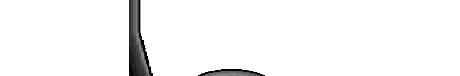
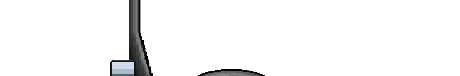
Viatura: volante girando redondo e inteiro, coluna de direção, porta e lado do passageiro desenhados
- Giro do volante em coordenadas de tela (pixel 8:7): o aro continua redondo e
  não deixa aparecer o que está atrás dele (vale para todos os carros).
- Volante da viatura inteiro (230 linhas), sem o corte reto aparecendo ao girar.
- Atrás do miolo: coluna de direção e painel dos joelhos; as aberturas do volante
  mostram a arte original (sem a mancha escura).
- Laterais desenhadas em pixel nativo: porta do motorista com vidro, retrovisor
  externo, soleira, friso de madeira, maçaneta, botões do vidro, apoio de braço,
  bolsa e alto-falante; lado do passageiro com saída de ar, frisos e porta-luvas.

Claude-Session: https://claude.ai/code/session_01MLD9VR7gkmY4w6a9beZcp6

Changed region(s): [[0.213, 0.7895, 0.3043, 1.0]]

diff --git a/src/cockpit.ts b/src/cockpit.ts
@@ -5,7 +5,7 @@ import { pix, pixWidth } from './pixfont';
 import { dither, speckle, text } from './ui';
 import { clamp, formatTime, lerp, rng, shade } from './util';
 import { F40_WHEEL } from './svg/f40';
-import { svgSprite } from './svgsprites';
+import { spriteAspect, svgSprite } from './svgsprites';
 // cabines em pixel art (tools/ref/import_cockpit.py)
 import dashF40Png from './assets/cockpit/f40-dash.png';
 import wheelF40Png from './assets/cockpit/f40-wheel.png';
@@ -116,7 +116,9 @@ function drawCockpitArt(c: CanvasRenderingContext2D, r: Race, dt: number, art: C
   const color = paintHex(r.car.id);
   const tint = (mask?: string) => (color && mask ? { mask, color } : undefined);
   const dash = svgSprite(art.dash, DASH_W, 124, tint(art.dashMask));
-  const wheelImg = svgSprite(art.wheel, CORE_W, 124);
+  // o volante pode ter mais linhas que o painel (inteiro, para girar sem mostrar corte)
+  const wheelH = Math.round(CORE_W * (spriteAspect(art.wheel) ?? 124 / CORE_W));
+  const wheelImg = svgSprite(art.wheel, CORE_W, wheelH);
   if (!dash || !wheelImg) return false;
   // o painel tem DASH_PAD colunas a mais de cada lado; só além disso a borda é esticada
   const dx = ox - DASH_PAD;
@@ -832,10 +834,15 @@ function steerAngle(r: Race, dt: number) {
   return wheelAngle;
 }
 
+// gira como na tela: o pixel é 8/7 mais largo, então o giro é feito em coordenadas de tela
+// (sem isso um aro redondo vira elipse girando e deixa aparecer o que está atrás dele)
 function withRotation(c: CanvasRenderingContext2D, cx: number, cy: number, ang: number, draw: () => void) {
+  const k = view.aspect;
   c.save();
   c.translate(cx, cy);
+  c.scale(1 / k, 1);
   c.rotate(ang);
+  c.scale(k, 1);
   c.translate(-cx, -cy);
   draw();
   c.restore();

diff --git a/tools/ref/import_cockpit.py b/tools/ref/import_cockpit.py
@@ -42,19 +42,8 @@ CARS = {
         'top_art': [],  # coluna da porta segue a arte até o teto
         'left': 'replicate', 'right': 'replicate',
         'sky_above': 236,   # nas colunas fora da arte, acima do painel é vidro (estrada à vista)
-        # fora da arte: à esquerda a porta, à direita o painel continua (faixas de cor lisa,
-        # tons tirados da arte; linhas da imagem original)
-        'pad_bands': {
-            'left': [(236, 240, '#5a5c5e'), (240, 262, '#3a3c3e'), (262, 268, '#121416'), (268, 300, '#26282a'),
-                     (300, 304, '#5e3422'), (304, 322, '#49271b'), (322, 326, '#2e180f'), (326, 420, '#1c1e20'),
-                     (420, 426, '#3c3e40'), (426, 466, '#2a2c2e'), (466, 472, '#0e1012'), (472, 640, '#1a1c1e'),
-                     (640, 646, '#2e3032'), (646, 2000, '#121314')],
-            'right': [(236, 240, '#121517'), (240, 270, '#4a4c4e'), (270, 282, '#191b1c'), (282, 300, '#1e2022'),
-                      (300, 322, '#49271b'), (322, 418, '#141516'), (418, 422, '#39302a'), (422, 458, '#4d2a19'),
-                      (458, 620, '#18191a'), (620, 658, '#472617'), (658, 820, '#131414'), (820, 856, '#3a1f13'),
-                      (856, 2000, '#141516')],
-        },
-        'hub_fill': ((30, 30, 32), 575),   # atrás do miolo do volante: coluna de direção escura, sem borrão
+        'hub_fill': ((27, 28, 31), 575),   # atrás do miolo do volante: cor lisa (a coluna é desenhada depois)
+        'wheel_rows': 230, 'paint': 'patrol', 'rim_margin': 11,
     },
     # Corvette C4: painel digital (os visores de LCD são redesenhados funcionando no jogo)
     'zr1': {
@@ -74,6 +63,165 @@ def sample(img, w, h):
     return img[ys][:, xs]
 
 
+def hexrgb(c):
+    return [int(c[i:i + 2], 16) for i in (1, 3, 5)]
+
+
+def paint_patrol(rgb, a, art_l, art_r, pivot, hub):
+    """Viatura: a arte cobre só o meio do painel. Desenha em pixel nativo a porta do
+    motorista (vidro, retrovisor, friso, maçaneta, apoio de braço, bolsa, alto-falante),
+    o lado do passageiro (saída de ar, porta-luvas) e a coluna de direção atrás do volante."""
+    H, W = a.shape
+
+    def put(x, y, c):
+        if 0 <= x < W and 0 <= y < H:
+            rgb[y, x] = hexrgb(c)
+            a[y, x] = 255
+
+    def clear(x, y):
+        if 0 <= x < W and 0 <= y < H:
+            a[y, x] = 0
+
+    top_l = int(np.argmax(a[:, art_l + 30] > 0))  # topo do painel logo à direita da coluna da porta
+    top_r = int(np.argmax(a[:, art_r - 1] > 0))
+    # ---- porta do motorista: as linhas descem para a esquerda (perspectiva) ----
+    for x in range(0, art_l):
+        sill = top_l + 2 + int(round((art_l - x) * 0.22))
+        for y in range(H):
+            d = y - sill
+            if d < 0:
+                clear(x, y)
+                continue
+            c = '#2a2c30'
+            if d == 0: c = '#6a6c70'
+            elif d <= 2: c = '#4a4c50'
+            elif d == 3: c = '#141517'
+            elif d == 7: c = '#5e3422'
+            elif 8 <= d <= 9: c = '#49271b'
+            elif d == 10: c = '#2e180f'
+            elif d == 24: c = '#46484c'
+            elif 25 <= d <= 32: c = '#34363a'
+            elif d == 33: c = '#141517'
+            elif 34 <= d <= 43: c = '#222428'
+            elif d == 44: c = '#3a3c40'
+            elif 45 <= d <= 52: c = '#121314'
+            elif d > 52: c = '#1c1e20'
+            put(x, y, c)
+        put(x, sill + 4, '#202226')
+    # fresta entre a porta e o painel
+    for y in range(top_l + 2, H):
+        put(art_l - 1, y, '#0e0f10')
+    # maçaneta (perto da frente da porta)
+    for x in range(art_l - 26, art_l - 14):
+        sill = top_l + 2 + int(round((art_l - x) * 0.22))
+        for d in range(14, 18):
+            put(x, sill + d, '#141517')
+        put(x, sill + 15, '#a0a2a6')
+        put(x, sill + 16, '#6a6c70')
+    # botões do vidro elétrico no apoio de braço
+    for x in range(art_l - 66, art_l - 44):
+        sill = top_l + 2 + int(round((art_l - x) * 0.22))
+        for d in range(26, 29):
+            put(x, sill + d, '#0e0f10')
+        if (x - (art_l - 66)) % 6 in (1, 2, 3):
+            put(x, sill + 27, '#8a8c90')
+    # alto-falante embaixo, com furinhos
+    cx = art_l - 92
+    cy = top_l + 2 + int(round(92 * 0.22)) + 64
+    for y in range(cy - 11, cy + 12):
+        for x in range(cx - 10, cx + 11):
+            q = ((x - cx) / 10) ** 2 + ((y - cy) / 11.4) ** 2
+            if q <= 1:
+                put(x, y, '#2e3034' if q > 0.8 else ('#26282c' if (x + y) % 2 else '#121314'))
+    # ---- lado do passageiro: painel continua ----
+    for x in range(art_r + 1, W):
+        for y in range(H):
+            d = y - top_r
+            if d < 0:
+                clear(x, y)
+                continue
+            c = '#1c1e20'
+            if d <= 1: c = '#5a5c5e'
+            elif d <= 5: c = '#4a4c4e'
+            elif d <= 7: c = '#2a2c2e'
+            elif d == 8: c = '#121416'
+            if y == 23: c = '#5e3422'
+            elif 24 <= y <= 27: c = '#49271b'
+            elif y == 28: c = '#2e180f'
+            elif y == 51: c = '#5e3422'
+            elif 52 <= y <= 58: c = '#4d2a19'
+            elif y == 59: c = '#2e180f'
+            elif y == 96: c = '#0c0d0e'
+            elif y > 96: c = '#141516'
+            put(x, y, c)
+    # saída de ar do passageiro
+    vx0, vx1 = art_r + 8, min(W - 4, art_r + 46)
+    for x in range(vx0, vx1):
+        for y in range(31, 47):
+            if x in (vx0, vx1 - 1) or y in (31, 46): c = '#3a3c40'
+            elif x == (vx0 + vx1) // 2: c = '#2e3034'
+            else: c = '#0c0d0e' if y % 2 else '#2a2c2e'
+            put(x, y, c)
+    # porta-luvas com fecho cromado
+    gx0, gx1 = art_r + 6, min(W - 2, art_r + 70)
+    for x in range(gx0, gx1):
+        for y in range(62, 93):
+            if y == 62: c = '#44464a'
+            elif y == 92: c = '#0e0f10'
+            elif x == gx0: c = '#3a3c40'
+            elif x == gx1 - 1: c = '#101113'
+            else: c = '#24262a'
+            put(x, y, c)
+    lx = (gx0 + gx1) // 2
+    for x in range(lx - 6, lx + 6):
+        put(x, 65, '#0e0f10')
+        put(x, 66, '#8a8c90')
+    # ---- coluna de direção (aparece entre os raios quando o volante gira) ----
+    px, py = pivot
+    for y in range(int(py) - 18, H):
+        for x in range(W):
+            if not hub[y, x]:  # só onde o miolo escondia a arte (as aberturas do volante ficam como na arte)
+                continue
+            hw = 12 + (y - (py - 18)) * 0.12
+            dx = x - px
+            if abs(dx) <= hw:
+                c = '#2c2e32'
+                if dx < -hw + 2: c = '#44464a'
+                elif dx > hw - 2: c = '#18191c'
+                if y < py - 13: c = '#202124' if abs(dx) < hw - 3 else c
+                put(x, y, c)
+            elif y > py - 18:
+                put(x, y, '#1b1c1f')  # painel embaixo do volante (joelhos)
+
+
+def paint_mirror(top, dash, art_l, sill_f):
+    """Retrovisor externo no canto da frente do vidro lateral, encostado na coluna da porta.
+    Ocupa o fim do topo (linhas negativas) e o começo do painel."""
+    EXTR = top.shape[0]
+
+    def put(x, y, c):
+        img = top if y < 0 else dash
+        yy = y + EXTR if y < 0 else y
+        if 0 <= x < img.shape[1] and 0 <= yy < img.shape[0]:
+            img[yy, x, :3] = hexrgb(c)
+            img[yy, x, 3] = 255
+
+    mx0, mx1 = art_l - 20, art_l + 6
+    my0, my1 = sill_f - 24, sill_f - 1
+    for x in range(mx0, mx1):
+        for y in range(my0, my1):
+            if min(x - mx0, mx1 - 1 - x) + min(y - my0, my1 - 1 - y) < 2:
+                continue  # cantos arredondados
+            if x <= mx0 + 1 or x >= mx1 - 2 or y <= my0 + 1 or y >= my1 - 2:
+                put(x, y, '#3a3c40' if y == my0 and mx0 + 2 < x < mx1 - 3 else '#141517')
+            else:  # vidro: céu claro em cima, estrada escura embaixo (reflexo)
+                t = (y - my0) / (my1 - my0)
+                put(x, y, '#d0dcea' if t < 0.35 else ('#a8bccc' if t < 0.6 else '#5a6068'))
+    for x in range(mx1 - 12, mx1):  # base presa na porta
+        for y in range(my1 - 1, sill_f + 2):
+            put(x, y, '#1c1d20')
+
+
 def main():
     src, outdir, car = sys.argv[1], sys.argv[2], sys.argv[3]
     cfg = CARS[car]
@@ -84,12 +232,15 @@ def main():
     xc0, y0 = cfg['x0'], cfg['y0']
     x0 = int(round(xc0 - PAD * px_w))
     x1, y1 = int(round(xc0 + (256 + PAD) * px_w)), int(y0 + ROWS * px_h)
+    wrows = cfg.get('wheel_rows', ROWS)  # o volante pode ir além da tela (girado, não mostra corte)
+    y1w = int(y0 + wrows * px_h)
     pad_x0, pad_x1 = max(0, -x0), max(0, x1 - full.shape[1])
     ty0 = int(round(y0 - EXT * px_h))  # topo das colunas, se vierem da arte
     tpad = max(0, -ty0)
-    canvas = cv2.copyMakeBorder(full, tpad, max(0, y1 - full.shape[0]), 0, 0, cv2.BORDER_REPLICATE)
+    canvas = cv2.copyMakeBorder(full, tpad, max(0, max(y1, y1w) - full.shape[0]), 0, 0, cv2.BORDER_REPLICATE)
     y0 += tpad
     y1 += tpad  # o recorte do painel também desce (sem isso a arte saía esticada na vertical)
+    y1w += tpad
     ty0 += tpad
     # onde a arte acaba nas laterais, espelha (fica natural; repetir a coluna vira listras)
     canvas = cv2.copyMakeBorder(canvas, 0, 0, pad_x0, pad_x1, cv2.BORDER_REFLECT)
@@ -137,6 +288,10 @@ def main():
 
     # fundo do painel: apaga volante e ponteiros
     hole = cv2.dilate(wheel.astype(np.uint8), np.ones((7, 7), np.uint8)) | needles
+    if 'rim_margin' in cfg:  # o aro medido não bate pixel a pixel: apaga uma faixa mais larga (sem "aro fantasma" ao girar)
+        k = cfg['rim_margin']
+        rim = ((m_out > 0) & (m_in == 0)).astype(np.uint8)
+        hole |= cv2.dilate(rim, np.ones((k, k), np.uint8))
     for (a, b, c, d) in cfg.get('erase', []):
         (a, b), (c, d) = to_crop(a, b), to_crop(c, d)
         hole[max(0, b):max(0, d), max(0, a):max(0, c)] = 1
@@ -177,6 +332,13 @@ def main():
     nw, nh = 256 + 2 * PAD, ROWS
     d_rgb = sample(cv2.cvtColor(dash, cv2.COLOR_BGR2RGB), nw, nh)
     d_a = sample((~sky).astype(np.uint8) * 255, nw, nh)
+    if cfg.get('paint') == 'patrol':
+        pivot_n = ((geo['center'][0] - xc0) / px_w + PAD, (geo['center'][1] - (y0 - tpad)) / px_h)
+        hub_n = sample(hub.astype(np.uint8), nw, nh) > 0
+        art_l = int(np.ceil(PAD + (0 - xc0) / px_w)) + 1
+        art_r = int(np.floor(PAD + (full.shape[1] - xc0) / px_w)) - 1
+        paint_patrol(d_rgb, d_a, art_l, art_r, pivot_n, hub_n)
+        patrol_mirror = (art_l, int(np.argmax(d_a[:, art_l + 30] > 0)) + 2)
     Image.fromarray(np.dstack([d_rgb, d_a]), 'RGBA').save(f'{outdir}/{car}-dash.png')
     # a arte acaba antes do teto: a coluna da porta é prolongada para cima (linha 0 do
     # painel repetida e deslocada pela inclinação da coluna) até a linha 24 da tela
@@ -197,6 +359,12 @@ def main():
         t_rgb = sample(cv2.cvtColor(timg, cv2.COLOR_BGR2RGB), nw, EXT)
         t_a = sample(talpha.astype(np.uint8) * 255, nw, EXT)
         Image.fromarray(np.dstack([t_rgb, t_a]), 'RGBA').save(f'{outdir}/{car}-top.png')
+    if cfg.get('paint') == 'patrol':
+        tp, dp = f'{outdir}/{car}-top.png', f'{outdir}/{car}-dash.png'
+        top_i, dash_i = np.array(Image.open(tp).convert('RGBA')), np.array(Image.open(dp).convert('RGBA'))
+        paint_mirror(top_i, dash_i, *patrol_mirror)
+        Image.fromarray(top_i, 'RGBA').save(tp)
+        Image.fromarray(dash_i, 'RGBA').save(dp)
     if 'pillar' in cfg:
         xmax, k = cfg['pillar']
         row = np.dstack([d_rgb, d_a])[0].copy()
@@ -208,8 +376,22 @@ def main():
             if shift >= nw: continue
             top[j, :nw - shift] = row[shift:]
         Image.fromarray(top, 'RGBA').save(f'{outdir}/{car}-top.png')
-    w_rgb = sample(cv2.cvtColor(img, cv2.COLOR_BGR2RGB), nw, nh)
-    w_a = sample((wheel & ~sky0).astype(np.uint8) * 255, nw, nh)
+    if wrows > ROWS:
+        imgw = canvas[y0:y1w, x0 + pad_x0:x1 + pad_x0]
+        hw_ = imgw.shape[0]
+        wo, wi, ws = (np.zeros((hw_, w), np.uint8) for _ in range(3))
+        cv2.fillPoly(wo, [shift(geo['outer'])], 1)
+        cv2.fillPoly(wi, [shift(geo['inner'])], 1)
+        for q in (sp if isinstance(sp[0][0], list) else [sp]):
+            cv2.fillPoly(ws, [shift(q)], 1)
+        wsky = np.zeros((hw_, w), bool)
+        wsky[:h] = sky0
+        wmask = (wo > 0) & ((wi == 0) | (ws > 0)) & ~wsky
+        w_rgb = sample(cv2.cvtColor(imgw, cv2.COLOR_BGR2RGB), nw, wrows)
+        w_a = sample(wmask.astype(np.uint8) * 255, nw, wrows)
+    else:
+        w_rgb = sample(cv2.cvtColor(img, cv2.COLOR_BGR2RGB), nw, nh)
+        w_a = sample((wheel & ~sky0).astype(np.uint8) * 255, nw, nh)
     Image.fromarray(np.dstack([w_rgb, w_a])[:, PAD:PAD + 256], 'RGBA').save(f'{outdir}/{car}-wheel.png')
 
     nat = lambda x, y: [round((x - xc0) / px_w, 1), round((y - (y0 - tpad)) / px_h, 1)]
